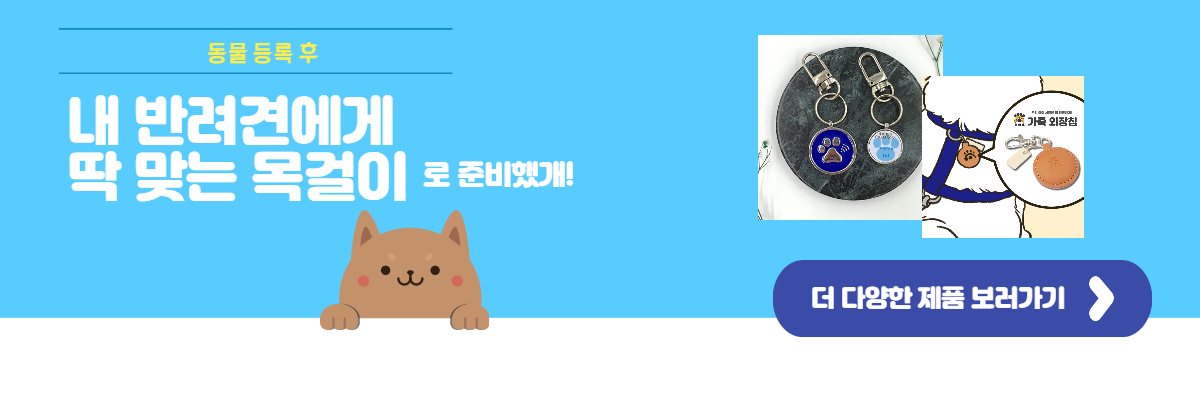
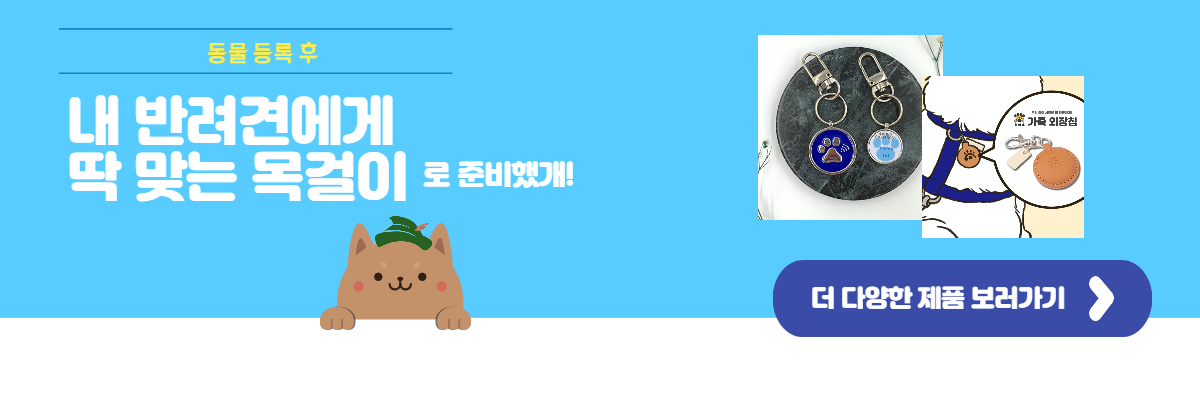
personal-id code changed & Tinkerbell css changed

Changed region(s): [[0.2775, 0.4952, 0.4317, 0.8048]]

diff --git a/frontend/src/views/PetMall.vue b/frontend/src/views/PetMall.vue
@@ -5,20 +5,24 @@
     <div class="main main-raised">
        <div class="section">
            <div class="md-layout">
-               <p style="margin-left: 450px; font-size: 60px;"> Welcome to Peter-Pet Mall </p>
+             <hr width="1570px;">
+             <br><br><br>
+               <p style="margin-left: 450px; font-size: 60px; color: darkgreen;"><b> Tinkerbell for Your Dog </b> </p>
+               <img style="width: 250px; height: 200px;" src="@/assets/img/Mall/tinkerbell-necklace.png">
                <div class="ad">
                <img style= "width: 1500px;" src="@/assets/img/Mall/ad.png">
                </div>
 
                <section class="serv_list">
                  <div class="item-container">
+                   <hr width="1150px;">
                    <div class="i-title">
                      <h1> Item List </h1>
                      <ul>
-                       <li><a href="">A</a></li>
-                       <li><a href="">B</a></li>
-                       <li><a href="">C</a></li>
-                       <li><a href="">D</a></li>
+                       <li><a href="">외장칩 목걸이</a></li>
+                       <li><a href="">장난감</a></li>
+                       <li><a href="">간식</a></li>
+                       <li><a href="">패션</a></li>
                      </ul>
                    </div>
                    <div class="item_list">
@@ -27,78 +31,78 @@
                          <img src="@/assets/img/Mall/necklace1.png">
                        </div>
                        <div class="i-text">
-                         <h2>Necklace1</h2>
-                         <p>welcome to peter-pet mall. this is necklace1 </p>
+                         <h5>가죽 외장칩</h5>
+                         <p>welcome to peter-pet mall. </p>
                          <button><i class="fas fa-check"></i> Buy </button>
                        </div>
                      </div>
                      <div class="i-card">
                        <div class="i-img">
-                         <img src="@/assets/img/Mall/necklace1.png">
+                         <img src="@/assets/img/Mall/necklace-2.png">
                        </div>
                        <div class="i-text">
-                         <h2>Necklace1</h2>
-                         <p>welcome to peter-pet mall. this is necklace1 </p>
+                         <h5>4색 외장칩</h5>
+                         <p>welcome to peter-pet mall.</p>
                          <button><i class="fas fa-check"></i> Buy </button>
                        </div>
                      </div>
                      <div class="i-card">
                        <div class="i-img">
-                         <img src="@/assets/img/Mall/necklace1.png">
+                         <img src="@/assets/img/Mall/necklace-3.png">
                        </div>
                        <div class="i-text">
-                         <h2>Necklace1</h2>
-                         <p>welcome to peter-pet mall. this is necklace1 </p>
+                         <h5>천연 가죽 고급지개</h5>
+                         <p>welcome to peter-pet mall.  </p>
                          <button><i class="fas fa-check"></i> Buy </button>
                        </div>
                      </div>
                      <div class="i-card">
                        <div class="i-img">
-                         <img src="@/assets/img/Mall/necklace1.png">
+                         <img src="@/assets/img/Mall/necklace-4.png">
                        </div>
                        <div class="i-text">
-                         <h2>Necklace1</h2>
-                         <p>welcome to peter-pet mall. this is necklace1 </p>
+                         <h5>우리집 삼남매</h5>
+                         <p>welcome to peter-pet mall. </p>
                          <button><i class="fas fa-check"></i> Buy </button>
                        </div>
                      </div>
                      <div class="i-card">
                        <div class="i-img">
-                         <img src="@/assets/img/Mall/necklace1.png">
+                         <img src="@/assets/img/Mall/necklace-5.png">
                        </div>
                        <div class="i-text">
-                         <h2>Necklace1</h2>
-                         <p>welcome to peter-pet mall. this is necklace1 </p>
+                         <h5>퍼스널컬러 외장칩</h5>
+                         <p>welcome to peter-pet mall.  </p>
                          <button><i class="fas fa-check"></i> Buy </button>
                        </div>
                      </div>
                      <div class="i-card">
                        <div class="i-img">
-                         <img src="@/assets/img/Mall/necklace1.png">
+                         <img src="@/assets/img/Mall/necklace-6.png">
                        </div>
                        <div class="i-text">
-                         <h2>Necklace1</h2>
-                         <p>welcome to peter-pet mall. this is necklace1 </p>
+                         <h5>페콩칩</h5>
+                         <p>welcome to peter-pet mall. </p>
                          <button><i class="fas fa-check"></i> Buy </button>
                        </div>
                      </div>
                      <div class="i-card">
                        <div class="i-img">
-                         <img src="@/assets/img/Mall/necklace1.png">
+                         <img src="@/assets/img/Mall/necklace-7.png">
                        </div>
                        <div class="i-text">
-                         <h2>Necklace1</h2>
-                         <p>welcome to peter-pet mall. this is necklace1 </p>
+                         <h5>홀로그램 외장칩</h5>
+                         <p>welcome to peter-pet mall. </p>
                          <button><i class="fas fa-check"></i> Buy </button>
                        </div>
                      </div>
                      <div class="i-card">
                        <div class="i-img">
-                         <img src="@/assets/img/Mall/necklace1.png">
+                         <img src="@/assets/img/Mall/necklace-8.png">
                        </div>
                        <div class="i-text">
-                         <h2>Necklace1</h2>
-                         <p>welcome to peter-pet mall. this is necklace1 </p>
+                         <h5>민트 외장칩</h5>
+                         <p>welcome to peter-pet mall.  </p>
                          <button><i class="fas fa-check"></i> Buy </button>
                        </div>
                      </div>
@@ -144,6 +148,7 @@
     justify-content: space-between;
   }
   .serv_list .item-container .item_list .i-card {
+    text-align: center;
     border: 1px solid #eee;
     border-radius: 5px;
     height: 350px;
@@ -157,11 +162,13 @@
     height: 200px;
   }
   .serv_list .item-container .item_list .i-card .i-text p{
+    margin-top: 20px;
+    text-align: center;
     font-size: 14px;
     opacity: .8;
   }
   .serv_list .item-container .item_list .i-card .i-text button {
-    background: black;
+    background: rgb(0, 0, 0);
     color:white;
     border: 2px solid white;
     border-radius: 5px;

diff --git a/frontend/src/views/Regist.vue b/frontend/src/views/Regist.vue
@@ -271,7 +271,7 @@
                         </md-field>
                         <md-field class="md-form-group" slot="inputs">
                           <label> <md-icon>home</md-icon>주소</label>
-                          <title>주소 입력 샘플</title>
+                          <title>주소 입력</title>
                           <body>
                             <form name="form" id="form" method="post">
                               <table>
@@ -300,6 +300,8 @@
                                       <input
                                         type="button"
                                         value="주소검색"
+                                        style="background-color:gray; color: white; width: 90px;"
+                                        
                                         @click="getPostalcode()"
                                       />
                                     </td>
@@ -338,25 +340,27 @@
                           </body>
                         </md-field>
                         <md-field class="md-form-group" slot="inputs">
-                          <div id="app">
+                          <br>
+                          <div id="personal-id" style="margin-top: 10px;">
                             <input
                               type="text"
                               inputmode="numeric"
                               pattern="[0-9]*"
                               maxlength="6"
                               @input="firstRRNCheck($event.data)"
-                              v-model="firstRRNView"
+                              v-model="resultfirstRRN"
                               class="tf_register"
                               placeholder="주민번호 앞자리"
                             />
                             -
                             <input
+                            style="position: absolute; width: 30%; bottom: 20px;"
                               type="text"
                               pattern="[0-9]*"
                               inputmode="numeric"
                               maxlength="7"
                               @input="secondRRNCheck($event.data)"
-                              v-model="secondRRNView"
+                              v-model="resultsecondRRNView"
                               placeholder="OOOOOOO"
                             />
                           </div>
@@ -476,7 +480,7 @@
                                     id="tooltip-button-1"
                                     style="margin: 0 auto; display: block"
                                     :pressed="true"
-                                    variant="success"
+                                    pill variant="outline-secondary"
                                     v-model="tinkerbellType"
                                     @click="selectTinkerbellType(1)"
                                     >외장칩 목걸이</b-button
@@ -502,7 +506,7 @@
                                     id="tooltip-button-1"
                                     style="margin: 0 auto; display: block"
                                     :pressed="true"
-                                    variant="success"
+                                    pill variant="outline-secondary"
                                     v-model="tinkerbellType"
                                     @click="selectTinkerbellType(2)"
                                     >내장칩 목걸이</b-button
@@ -607,6 +611,18 @@ export default {
 
       breeds: [
         "포메라니안",
+        "슈나우저",
+        "웰시코기",
+        "페키니즈",
+        "스피츠",
+        "래브라도 리트리버",
+        "아메리칸 코카 스파니엘",
+        "보스턴테리어",
+        "사모예드",
+        "롯드와일러",
+        "잭러셀테리어",
+        "달마시안",
+        "믹스견",
         "말티즈",
         "요크셔테리어",
         "시츄",
@@ -919,9 +935,9 @@ export default {
 
       for (let j = 1; j < 7; j++) {
         if (j < 3) {
-          N += this.secondRRN[j - 1] * (j + 7);
+          N += this.secondRRN[j - 1] * (j + 7)
         } else {
-          N += this.secondRRN[j - 1] * (j - 1);
+          N += this.secondRRN[j - 1] * (j - 1)
         }
       }
 
@@ -937,6 +953,7 @@ export default {
 };
 </script>
 <style lang="scss" scoped="scoped">
+
 .register-form {
   margin-top: -20%;
 }
@@ -1085,7 +1102,7 @@ textarea {
   padding: 10px 20px;
   margin: 5px 0;
   box-sizing: 80px;
-  border: solid 2px #cccccc;
+  border: solid 2px #e0e0e0;
   border-radius: 8px;
 }
 
@@ -1094,7 +1111,7 @@ input[type="text"] {
   padding: 10px 20px;
   margin: 5px 0;
   box-sizing: 80px;
-  border: solid 2px #cccccc;
+  border: solid 2px #e0e0e0;
   border-radius: 8px;
 }
 
@@ -1103,19 +1120,19 @@ input[type="tel"] {
   padding: 10px 20px;
   margin: 5px 0;
   box-sizing: 80px;
-  border: solid 2px #cccccc;
+  border: solid 2px #e0e0e0;
   border-radius: 8px;
 }
 
 input[type="button"] {
   margin-left: 15px;
   border-radius: 8px;
-  border: solid 2px #cccccc;
+  border: solid 2px #e0e0e0;
 }
 
 input[type="submit"] {
   border-radius: 8px;
-  border: solid 2px #cccccc;
+  border: solid 2px #e0e0e0;
 }
 
 input[type="email"] {
@@ -1123,7 +1140,7 @@ input[type="email"] {
   padding: 10px 20px;
   margin: 5px 0;
   box-sizing: 80px;
-  border: solid 2px #cccccc;
+  border: solid 2px #e0e0e0;
   border-radius: 8px;
 }
 
@@ -1133,4 +1150,9 @@ div#selectbutton {
 .b-button {
   padding-left: 30px;
 }
+.info {
+  margin-top: -80px;
+  margin-bottom: 100px;
+  margin-left: -60px;
+  }
 </style>

diff --git a/frontend/src/views/RegisterComplete.vue b/frontend/src/views/RegisterComplete.vue
@@ -35,7 +35,7 @@
           <div class="query">
             <label><b>{{ $route.query.msg }}</b></label>
           </div>
-          <div class="link">
+          <div class="complete-img">
             <img
               id="dog"
               :src="$route.query.peterpet.imgLink"
@@ -95,7 +95,7 @@ export default {
 
 <style lang="css">
 
-.link {
+.complete-img {
   z-index: 2;
   position: relative;
   width: 200px;
@@ -104,7 +104,7 @@ export default {
   margin-top: -225px;
   left: -650px;
 }
-.link img {
+.complete-img img {
   position: absolute;
   top: 0;
   left: 0;

diff --git a/frontend/src/views/CustomerService.vue b/frontend/src/views/CustomerService.vue
@@ -2,7 +2,7 @@
   <div class="wrapper">
    <parallax class="section page-header" :style="headerStyle">
             <h1 style="text-align: center; color: white;">도움이 필요하신가요?<br><br>
-            PeterPet Customer Service<br><br>
+            <b>Peter-Pet</b> &nbsp; Customer Service<br><br>
             평일: 10:00-18:00<br>
             점심: 12:30- 13:30</h1>
    </parallax>
